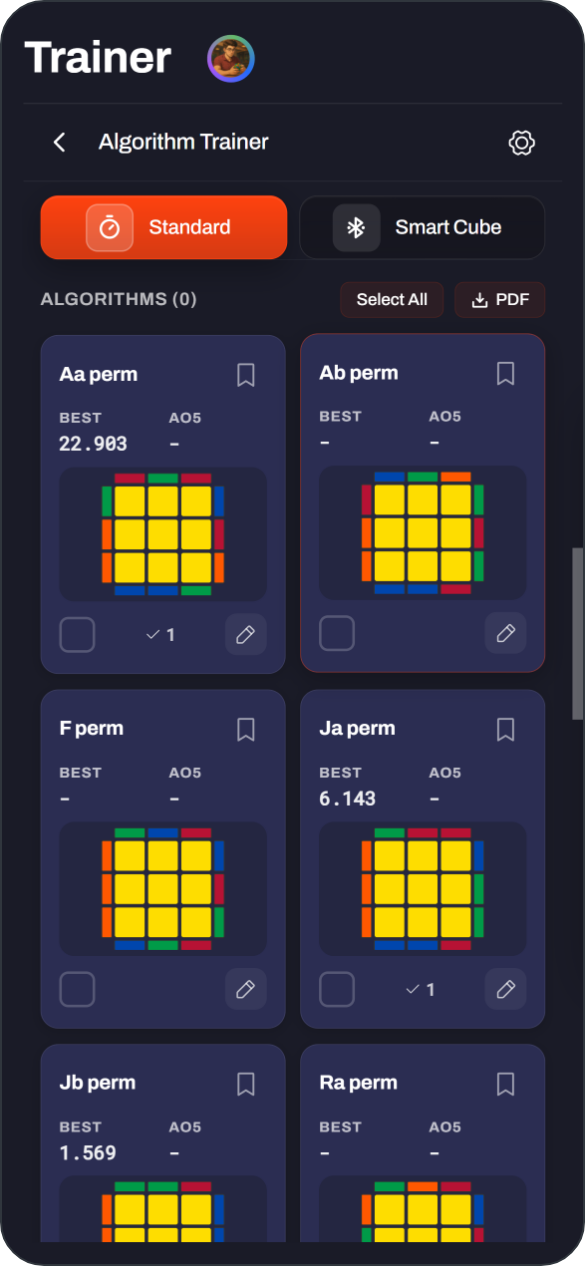
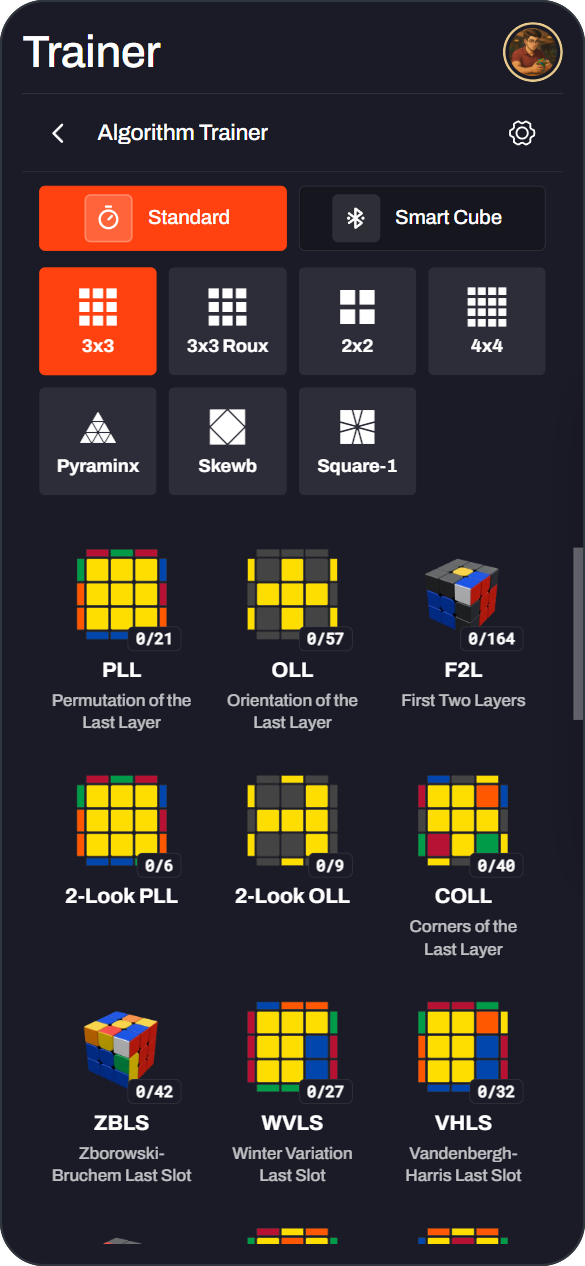
docs: update README assets, screenshots, and branding references

diff --git a/README.md b/README.md
@@ -1,9 +1,6 @@
 <div align="center">
 
-<picture>
-  <source media="(prefers-color-scheme: dark)" srcset="public/images/zkt-logo.png">
-  <img src="public/images/zkt-logo-white.png" alt="Zkt Timer" width="300">
-</picture>
+<img src="docs/images/zkt-timer-logo.png" alt="ZKT Timer" width="200">
 
 ### A complete speedcubing ecosystem, all in one place
 
@@ -23,7 +20,7 @@ Timer · Magnet Timer · Smart Cube · Algorithm Trainer · Puzzle Solvers · On
 
 ## Overview
 
-Zkt Timer is a full-stack speedcubing platform I have been building for the cubing community since 2025. It
+ZKT Timer is a full-stack speedcubing platform I have been building for the cubing community since 2025. It
 brings everything a cuber needs into a single product: a precision timer with Bluetooth smart-cube support and
 a hands-free Magnet Timer, an algorithm trainer with shareable algorithm sets, a full suite of puzzle solvers,
 real-time rooms and rated 1v1 online battles, direct messages, and live tracking of WCA and ZKT competitions.
@@ -36,13 +33,13 @@ everything lives under one roof, with your solves, sessions, and progress synced
 
 <p align="center">
   <img src="docs/images/screenshots/timer.png" alt="Timer" width="260">
-  <img src="docs/images/screenshots/trainer.png" alt="Trainer" width="260">
+  <img src="docs/images/screenshots/smart-cube.png" alt="Smart cube solve breakdown" width="260">
   <img src="docs/images/screenshots/algorithms.png" alt="Algorithm Trainer" width="260">
 </p>
 <p align="center">
-  <img src="docs/images/screenshots/battle.png" alt="Battle" width="260">
-  <img src="docs/images/screenshots/competitions.png" alt="Competitions" width="260">
-  <img src="docs/images/screenshots/profile.png" alt="Profile" width="260">
+  <img src="docs/images/screenshots/rooms.png" alt="Rooms" width="260">
+  <img src="docs/images/screenshots/competitions.png" alt="Competition schedule" width="260">
+  <img src="docs/images/screenshots/stats.png" alt="Statistics" width="260">
 </p>
 
 ## Features
@@ -65,7 +62,7 @@ cube, gyroscope orientation, MAC discovery, and full move replay. Scramble moves
 a wrong move shows its fix. After a solve you get a Cross / F2L / OLL / PLL breakdown with move count and TPS,
 plus per-case statistics for OLL and PLL. The connection stays alive as you move between the timer, rooms, and
 the trainer. The protocol parsing logic is adapted from csTimer; the connection layer, reconnect handling,
-native BLE adapter for iOS and Android, and the visualization are built for Zkt Timer.
+native BLE adapter for iOS and Android, and the visualization are built for ZKT Timer.
 
 ### Algorithm Trainer
 Drill OLL, PLL, F2L, ZBLL, OLLCP, and many more algorithm sets, each with its own statistics, smart queue
@@ -112,14 +109,14 @@ three-tier membership model (Free, Pro, Premium), push notifications, and offlin
 
 ## Architecture
 
-How Zkt Timer fits together, from a user's request to the response and from a commit to the app stores: web
+How ZKT Timer fits together, from a user's request to the response and from a commit to the app stores: web
 and mobile entry points, Cloudflare and Nginx, the Node.js server (Express, GraphQL, Socket.IO, SSR) with its
 PostgreSQL, Redis, and Elasticsearch data layer, the external services it calls, the device-side pieces
 (Bluetooth sensors, offline sync, over-the-air updates), push notifications, in-app purchases, and the CI/CD
 pipeline.
 
 <div align="center">
-  <img src="docs/images/architecture.png" alt="Zkt Timer request flow architecture" width="900">
+  <img src="docs/images/architecture.png" alt="ZKT Timer request flow architecture" width="900">
 </div>
 
 **Stack:** React 17 · custom esbuild SSR · type-graphql + Apollo Server · Prisma + PostgreSQL · Redis ·
@@ -139,12 +136,12 @@ The full stack (PostgreSQL, Redis, app server) runs with `docker compose up`.
 
 ## Credits & References
 
-Zkt Timer was built by bringing together work from many open-source projects. Some parts were ported and
+ZKT Timer was built by bringing together work from many open-source projects. Some parts were ported and
 adapted, some were rewritten in a different language, and some were designed from scratch for this project.
 Each reference is documented individually, stating both what was taken from it and what was built on top.
 
 Full attribution is on the **[Credits page](https://zktimer.app/credits)**, along with the features that were
-designed for Zkt Timer itself. My thanks go to the authors and developers of every project listed there.
+designed for ZKT Timer itself. My thanks go to the authors and developers of every project listed there.
 
 ## License
 
